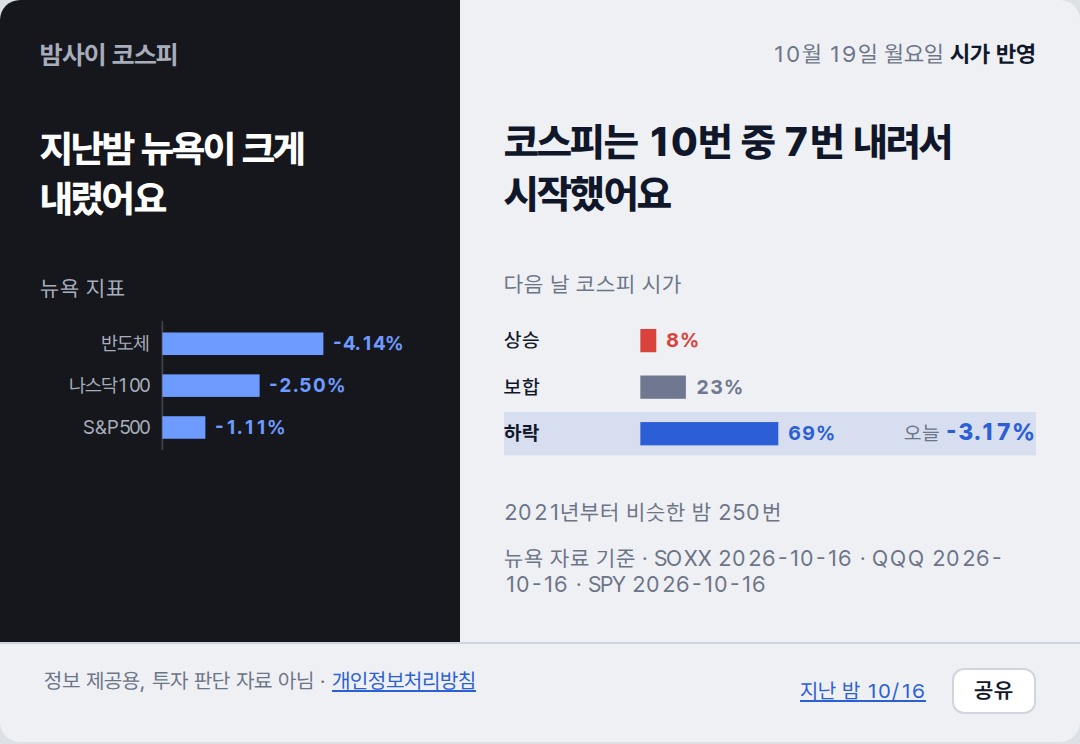
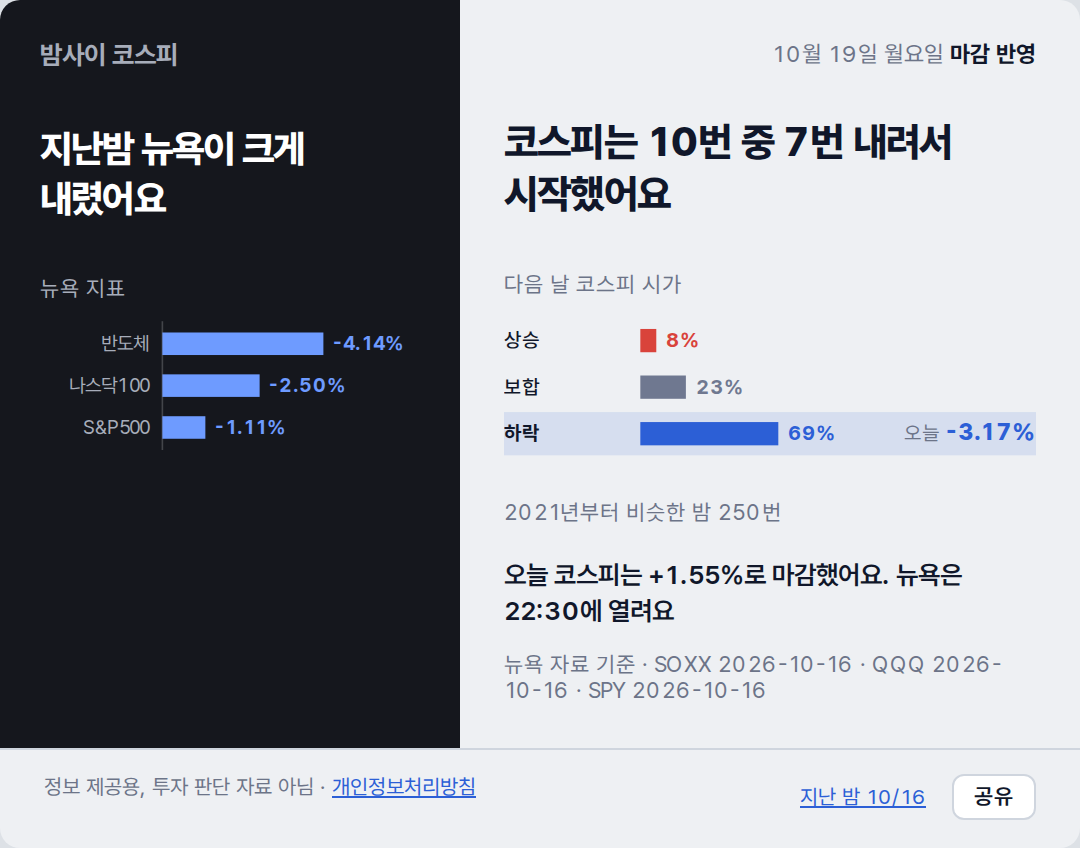
deploy: 83715f4442a63addcf74a369a827ce43509b27bc

diff --git a/archive/2026-10/index.html b/archive/2026-10/index.html
@@ -31,7 +31,7 @@ body{overflow-wrap:anywhere}.row-label{flex-wrap:wrap;gap:4px 12px}
 </style></head><body><a class="skip" href="#main">본문으로 이동</a><div class="wrap">
 <nav class="service-family" aria-label="디토엑시스"><a href="https://ditoaxis.com/#products"><span class="axis-mark" aria-hidden="true">+</span>디토엑시스 서비스<span aria-hidden="true">↗</span></a></nav>
 <header class="site-header"><a class="brand" href="https://kospi.ditoaxis.com/">밤사이 코스피</a><nav aria-label="사이트"><a href="https://kospi.ditoaxis.com/archive/2026-10/">지난 기록</a><a href="https://kospi.ditoaxis.com/about/">집계 기준</a></nav></header>
-<main id="main" tabindex="-1"><div class="page-heading"><h1>2026년 10월 기록</h1></div><nav class="day-nav" aria-label="월별 기록"><a rel="prev" href="https://kospi.ditoaxis.com/archive/2026-09/">이전 달 9월</a></nav><p class="table-hint">표를 좌우로 밀어 모든 항목을 볼 수 있어요.</p><div class="table-scroll" role="region" aria-label="시장 기록 비교표, 좌우로 스크롤" tabindex="0"><table class="archive-table"><thead><tr><th scope="col">날짜</th><th scope="col">SOXX<span class="column-unit">등락률</span></th><th scope="col">QQQ<span class="column-unit">등락률</span></th><th scope="col">SPY<span class="column-unit">등락률</span></th><th scope="col">시가<span class="column-unit">등락률</span></th><th scope="col">종가<span class="column-unit">등락률</span></th></tr></thead><tbody><tr data-date="2026-10-19"><th scope="row"><a href="https://kospi.ditoaxis.com/2026-10-19/">10/19</a></th><td><span class="cell-mark" style="background:var(--down)" aria-hidden="true"></span>-4.14%</td><td><span class="cell-mark" style="background:var(--down)" aria-hidden="true"></span>-2.50%</td><td><span class="cell-mark" style="background:var(--down)" aria-hidden="true"></span>-1.11%</td><td><span class="cell-mark" style="background:var(--down)" aria-hidden="true"></span>-3.17%</td><td><span class="cell-wait">종가 대기</span></td></tr><tr data-date="2026-10-16"><th scope="row"><a href="https://kospi.ditoaxis.com/2026-10-16/">10/16</a></th><td><span class="cell-mark" style="background:var(--down)" aria-hidden="true"></span>-0.91%</td><td><span class="cell-mark" style="background:var(--down)" aria-hidden="true"></span>-0.13%</td><td><span class="cell-mark" style="background:var(--up)" aria-hidden="true"></span>+0.28%</td><td><span class="cell-mark" style="background:var(--up)" aria-hidden="true"></span>+1.80%</td><td><span class="cell-mark" style="background:var(--up)" aria-hidden="true"></span>+2.05%</td></tr><tr data-date="2026-10-15"><th scope="row"><a href="https://kospi.ditoaxis.com/2026-10-15/">10/15</a></th><td><span class="cell-mark" style="background:var(--down)" aria-hidden="true"></span>-4.50%</td><td><span class="cell-mark" style="background:var(--down)" aria-hidden="true"></span>-1.97%</td><td><span class="cell-mark" style="background:var(--down)" aria-hidden="true"></span>-1.08%</td><td><span class="cell-mark" style="background:var(--down)" aria-hidden="true"></span>-5.59%</td><td><span class="cell-mark" style="background:var(--down)" aria-hidden="true"></span>-7.57%</td></tr><tr data-date="2026-10-14"><th scope="row"><a href="https://kospi.ditoaxis.com/2026-10-14/">10/14</a></th><td><span class="cell-mark" style="background:var(--down)" aria-hidden="true"></span>-0.17%</td><td><span class="cell-mark" style="background:var(--down)" aria-hidden="true"></span>-0.33%</td><td><span class="cell-mark" style="background:var(--flat)" aria-hidden="true"></span>-0.01%</td><td><span class="cell-mark" style="background:var(--up)" aria-hidden="true"></span>+0.44%</td><td><span class="cell-mark" style="background:var(--down)" aria-hidden="true"></span>-0.44%</td></tr><tr data-date="2026-10-13"><th scope="row"><a href="https://kospi.ditoaxis.com/2026-10-13/">10/13</a></th><td><span class="cell-mark" style="background:var(--down)" aria-hidden="true"></span>-2.60%</td><td><span class="cell-mark" style="background:var(--down)" aria-hidden="true"></span>-0.70%</td><td><span class="cell-mark" style="background:var(--down)" aria-hidden="true"></span>-0.06%</td><td><span class="cell-mark" style="background:var(--down)" aria-hidden="true"></span>-3.10%</td><td><span class="cell-mark" style="background:var(--down)" aria-hidden="true"></span>-5.46%</td></tr><tr data-date="2026-10-12"><th scope="row"><a href="https://kospi.ditoaxis.com/2026-10-12/">10/12</a></th><td><span class="cell-mark" style="background:var(--down)" aria-hidden="true"></span>-4.02%</td><td><span class="cell-mark" style="background:var(--down)" aria-hidden="true"></span>-0.85%</td><td><span class="cell-mark" style="background:var(--up)" aria-hidden="true"></span>+0.17%</td><td><span class="cell-mark" style="background:var(--down)" aria-hidden="true"></span>-0.72%</td><td><span class="cell-mark" style="background:var(--down)" aria-hidden="true"></span>-3.65%</td></tr><tr data-date="2026-10-09"><th scope="row"><a href="https://kospi.ditoaxis.com/2026-10-09/">10/09</a></th><td><span class="cell-mark" style="background:var(--down)" aria-hidden="true"></span>-3.35%</td><td><span class="cell-mark" style="background:var(--down)" aria-hidden="true"></span>-1.34%</td><td><span class="cell-mark" style="background:var(--down)" aria-hidden="true"></span>-0.42%</td><td colspan="2" class="no-record">기록이 없어요</td></tr><tr data-date="2026-10-08"><th scope="row"><a href="https://kospi.ditoaxis.com/2026-10-08/">10/08</a></th><td><span class="cell-mark" style="background:var(--down)" aria-hidden="true"></span>-1.12%</td><td><span class="cell-mark" style="background:var(--down)" aria-hidden="true"></span>-0.25%</td><td><span class="cell-mark" style="background:var(--down)" aria-hidden="true"></span>-0.24%</td><td><span class="cell-mark" style="background:var(--up)" aria-hidden="true"></span>+0.07%</td><td><span class="cell-mark" style="background:var(--down)" aria-hidden="true"></span>-2.62%</td></tr><tr data-date="2026-10-07"><th scope="row"><a href="https://kospi.ditoaxis.com/2026-10-07/">10/07</a></th><td><span class="cell-mark" style="background:var(--flat)" aria-hidden="true"></span>-0.01%</td><td><span class="cell-mark" style="background:var(--up)" aria-hidden="true"></span>+0.46%</td><td><span class="cell-mark" style="background:var(--up)" aria-hidden="true"></span>+0.55%</td><td><span class="cell-mark" style="background:var(--down)" aria-hidden="true"></span>-1.11%</td><td><span class="cell-mark" style="background:var(--down)" aria-hidden="true"></span>-1.98%</td></tr><tr data-date="2026-10-06"><th scope="row"><a href="https://kospi.ditoaxis.com/2026-10-06/">10/06</a></th><td><span class="cell-mark" style="background:var(--up)" aria-hidden="true"></span>+2.29%</td><td><span class="cell-mark" style="background:var(--up)" aria-hidden="true"></span>+1.91%</td><td><span class="cell-mark" style="background:var(--up)" aria-hidden="true"></span>+1.42%</td><td><span class="cell-mark" style="background:var(--up)" aria-hidden="true"></span>+0.58%</td><td><span class="cell-mark" style="background:var(--down)" aria-hidden="true"></span>-0.89%</td></tr><tr data-date="2026-10-05"><th scope="row"><a href="https://kospi.ditoaxis.com/2026-10-05/">10/05</a></th><td><span class="cell-mark" style="background:var(--up)" aria-hidden="true"></span>+2.18%</td><td><span class="cell-mark" style="background:var(--up)" aria-hidden="true"></span>+1.02%</td><td><span class="cell-mark" style="background:var(--up)" aria-hidden="true"></span>+0.74%</td><td colspan="2" class="no-record">기록이 없어요</td></tr><tr data-date="2026-10-02"><th scope="row"><a href="https://kospi.ditoaxis.com/2026-10-02/">10/02</a></th><td><span class="cell-mark" style="background:var(--up)" aria-hidden="true"></span>+1.35%</td><td><span class="cell-mark" style="background:var(--up)" aria-hidden="true"></span>+0.31%</td><td><span class="cell-mark" style="background:var(--up)" aria-hidden="true"></span>+0.18%</td><td><span class="cell-mark" style="background:var(--down)" aria-hidden="true"></span>-0.47%</td><td><span class="cell-mark" style="background:var(--up)" aria-hidden="true"></span>+0.46%</td></tr><tr data-date="2026-10-01"><th scope="row"><a href="https://kospi.ditoaxis.com/2026-10-01/">10/01</a></th><td><span class="cell-mark" style="background:var(--up)" aria-hidden="true"></span>+0.21%</td><td><span class="cell-mark" style="background:var(--up)" aria-hidden="true"></span>+0.25%</td><td><span class="cell-mark" style="background:var(--down)" aria-hidden="true"></span>-0.21%</td><td><span class="cell-mark" style="background:var(--down)" aria-hidden="true"></span>-0.34%</td><td><span class="cell-mark" style="background:var(--up)" aria-hidden="true"></span>+1.95%</td></tr></tbody></table></div></main><footer class="site-footer"><span>정보 제공용, 투자 판단 자료 아님</span><nav><a href="https://kospi.ditoaxis.com/about/">집계 기준</a><a href="https://kospi.ditoaxis.com/privacy/">개인정보처리방침</a></nav></footer></div><script id="market-table-keys">
+<main id="main" tabindex="-1"><div class="page-heading"><h1>2026년 10월 기록</h1></div><nav class="day-nav" aria-label="월별 기록"><a rel="prev" href="https://kospi.ditoaxis.com/archive/2026-09/">이전 달 9월</a></nav><p class="table-hint">표를 좌우로 밀어 모든 항목을 볼 수 있어요.</p><div class="table-scroll" role="region" aria-label="시장 기록 비교표, 좌우로 스크롤" tabindex="0"><table class="archive-table"><thead><tr><th scope="col">날짜</th><th scope="col">SOXX<span class="column-unit">등락률</span></th><th scope="col">QQQ<span class="column-unit">등락률</span></th><th scope="col">SPY<span class="column-unit">등락률</span></th><th scope="col">시가<span class="column-unit">등락률</span></th><th scope="col">종가<span class="column-unit">등락률</span></th></tr></thead><tbody><tr data-date="2026-10-19"><th scope="row"><a href="https://kospi.ditoaxis.com/2026-10-19/">10/19</a></th><td><span class="cell-mark" style="background:var(--down)" aria-hidden="true"></span>-4.14%</td><td><span class="cell-mark" style="background:var(--down)" aria-hidden="true"></span>-2.50%</td><td><span class="cell-mark" style="background:var(--down)" aria-hidden="true"></span>-1.11%</td><td><span class="cell-mark" style="background:var(--down)" aria-hidden="true"></span>-3.17%</td><td><span class="cell-mark" style="background:var(--up)" aria-hidden="true"></span>+1.55%</td></tr><tr data-date="2026-10-16"><th scope="row"><a href="https://kospi.ditoaxis.com/2026-10-16/">10/16</a></th><td><span class="cell-mark" style="background:var(--down)" aria-hidden="true"></span>-0.91%</td><td><span class="cell-mark" style="background:var(--down)" aria-hidden="true"></span>-0.13%</td><td><span class="cell-mark" style="background:var(--up)" aria-hidden="true"></span>+0.28%</td><td><span class="cell-mark" style="background:var(--up)" aria-hidden="true"></span>+1.80%</td><td><span class="cell-mark" style="background:var(--up)" aria-hidden="true"></span>+2.05%</td></tr><tr data-date="2026-10-15"><th scope="row"><a href="https://kospi.ditoaxis.com/2026-10-15/">10/15</a></th><td><span class="cell-mark" style="background:var(--down)" aria-hidden="true"></span>-4.50%</td><td><span class="cell-mark" style="background:var(--down)" aria-hidden="true"></span>-1.97%</td><td><span class="cell-mark" style="background:var(--down)" aria-hidden="true"></span>-1.08%</td><td><span class="cell-mark" style="background:var(--down)" aria-hidden="true"></span>-5.59%</td><td><span class="cell-mark" style="background:var(--down)" aria-hidden="true"></span>-7.57%</td></tr><tr data-date="2026-10-14"><th scope="row"><a href="https://kospi.ditoaxis.com/2026-10-14/">10/14</a></th><td><span class="cell-mark" style="background:var(--down)" aria-hidden="true"></span>-0.17%</td><td><span class="cell-mark" style="background:var(--down)" aria-hidden="true"></span>-0.33%</td><td><span class="cell-mark" style="background:var(--flat)" aria-hidden="true"></span>-0.01%</td><td><span class="cell-mark" style="background:var(--up)" aria-hidden="true"></span>+0.44%</td><td><span class="cell-mark" style="background:var(--down)" aria-hidden="true"></span>-0.44%</td></tr><tr data-date="2026-10-13"><th scope="row"><a href="https://kospi.ditoaxis.com/2026-10-13/">10/13</a></th><td><span class="cell-mark" style="background:var(--down)" aria-hidden="true"></span>-2.60%</td><td><span class="cell-mark" style="background:var(--down)" aria-hidden="true"></span>-0.70%</td><td><span class="cell-mark" style="background:var(--down)" aria-hidden="true"></span>-0.06%</td><td><span class="cell-mark" style="background:var(--down)" aria-hidden="true"></span>-3.10%</td><td><span class="cell-mark" style="background:var(--down)" aria-hidden="true"></span>-5.46%</td></tr><tr data-date="2026-10-12"><th scope="row"><a href="https://kospi.ditoaxis.com/2026-10-12/">10/12</a></th><td><span class="cell-mark" style="background:var(--down)" aria-hidden="true"></span>-4.02%</td><td><span class="cell-mark" style="background:var(--down)" aria-hidden="true"></span>-0.85%</td><td><span class="cell-mark" style="background:var(--up)" aria-hidden="true"></span>+0.17%</td><td><span class="cell-mark" style="background:var(--down)" aria-hidden="true"></span>-0.72%</td><td><span class="cell-mark" style="background:var(--down)" aria-hidden="true"></span>-3.65%</td></tr><tr data-date="2026-10-09"><th scope="row"><a href="https://kospi.ditoaxis.com/2026-10-09/">10/09</a></th><td><span class="cell-mark" style="background:var(--down)" aria-hidden="true"></span>-3.35%</td><td><span class="cell-mark" style="background:var(--down)" aria-hidden="true"></span>-1.34%</td><td><span class="cell-mark" style="background:var(--down)" aria-hidden="true"></span>-0.42%</td><td colspan="2" class="no-record">기록이 없어요</td></tr><tr data-date="2026-10-08"><th scope="row"><a href="https://kospi.ditoaxis.com/2026-10-08/">10/08</a></th><td><span class="cell-mark" style="background:var(--down)" aria-hidden="true"></span>-1.12%</td><td><span class="cell-mark" style="background:var(--down)" aria-hidden="true"></span>-0.25%</td><td><span class="cell-mark" style="background:var(--down)" aria-hidden="true"></span>-0.24%</td><td><span class="cell-mark" style="background:var(--up)" aria-hidden="true"></span>+0.07%</td><td><span class="cell-mark" style="background:var(--down)" aria-hidden="true"></span>-2.62%</td></tr><tr data-date="2026-10-07"><th scope="row"><a href="https://kospi.ditoaxis.com/2026-10-07/">10/07</a></th><td><span class="cell-mark" style="background:var(--flat)" aria-hidden="true"></span>-0.01%</td><td><span class="cell-mark" style="background:var(--up)" aria-hidden="true"></span>+0.46%</td><td><span class="cell-mark" style="background:var(--up)" aria-hidden="true"></span>+0.55%</td><td><span class="cell-mark" style="background:var(--down)" aria-hidden="true"></span>-1.11%</td><td><span class="cell-mark" style="background:var(--down)" aria-hidden="true"></span>-1.98%</td></tr><tr data-date="2026-10-06"><th scope="row"><a href="https://kospi.ditoaxis.com/2026-10-06/">10/06</a></th><td><span class="cell-mark" style="background:var(--up)" aria-hidden="true"></span>+2.29%</td><td><span class="cell-mark" style="background:var(--up)" aria-hidden="true"></span>+1.91%</td><td><span class="cell-mark" style="background:var(--up)" aria-hidden="true"></span>+1.42%</td><td><span class="cell-mark" style="background:var(--up)" aria-hidden="true"></span>+0.58%</td><td><span class="cell-mark" style="background:var(--down)" aria-hidden="true"></span>-0.89%</td></tr><tr data-date="2026-10-05"><th scope="row"><a href="https://kospi.ditoaxis.com/2026-10-05/">10/05</a></th><td><span class="cell-mark" style="background:var(--up)" aria-hidden="true"></span>+2.18%</td><td><span class="cell-mark" style="background:var(--up)" aria-hidden="true"></span>+1.02%</td><td><span class="cell-mark" style="background:var(--up)" aria-hidden="true"></span>+0.74%</td><td colspan="2" class="no-record">기록이 없어요</td></tr><tr data-date="2026-10-02"><th scope="row"><a href="https://kospi.ditoaxis.com/2026-10-02/">10/02</a></th><td><span class="cell-mark" style="background:var(--up)" aria-hidden="true"></span>+1.35%</td><td><span class="cell-mark" style="background:var(--up)" aria-hidden="true"></span>+0.31%</td><td><span class="cell-mark" style="background:var(--up)" aria-hidden="true"></span>+0.18%</td><td><span class="cell-mark" style="background:var(--down)" aria-hidden="true"></span>-0.47%</td><td><span class="cell-mark" style="background:var(--up)" aria-hidden="true"></span>+0.46%</td></tr><tr data-date="2026-10-01"><th scope="row"><a href="https://kospi.ditoaxis.com/2026-10-01/">10/01</a></th><td><span class="cell-mark" style="background:var(--up)" aria-hidden="true"></span>+0.21%</td><td><span class="cell-mark" style="background:var(--up)" aria-hidden="true"></span>+0.25%</td><td><span class="cell-mark" style="background:var(--down)" aria-hidden="true"></span>-0.21%</td><td><span class="cell-mark" style="background:var(--down)" aria-hidden="true"></span>-0.34%</td><td><span class="cell-mark" style="background:var(--up)" aria-hidden="true"></span>+1.95%</td></tr></tbody></table></div></main><footer class="site-footer"><span>정보 제공용, 투자 판단 자료 아님</span><nav><a href="https://kospi.ditoaxis.com/about/">집계 기준</a><a href="https://kospi.ditoaxis.com/privacy/">개인정보처리방침</a></nav></footer></div><script id="market-table-keys">
 document.querySelectorAll('.table-scroll').forEach(region => {
   region.addEventListener('keydown', event => {
     if (event.target !== region || event.altKey || event.ctrlKey || event.metaKey || event.shiftKey || region.scrollWidth <= region.clientWidth) return;

diff --git a/2026-10-19/index.html b/2026-10-19/index.html
@@ -31,7 +31,7 @@ body{overflow-wrap:anywhere}.row-label{flex-wrap:wrap;gap:4px 12px}
 </style></head><body><a class="skip" href="#main">본문으로 이동</a><div class="wrap">
 <nav class="service-family" aria-label="디토엑시스"><a href="https://ditoaxis.com/#products"><span class="axis-mark" aria-hidden="true">+</span>디토엑시스 서비스<span aria-hidden="true">↗</span></a></nav>
 <header class="site-header"><a class="brand" href="https://kospi.ditoaxis.com/">밤사이 코스피</a><nav aria-label="사이트"><a href="https://kospi.ditoaxis.com/archive/2026-10/">지난 기록</a><a href="https://kospi.ditoaxis.com/about/">집계 기준</a></nav></header>
-<main id="main" tabindex="-1"><div class="page-heading"><h1><time datetime="2026-10-19">2026년 10월 19일</time></h1><button class="share" type="button" hidden>공유</button></div><nav class="day-nav" aria-label="날짜별 기록"><a rel="prev" href="https://kospi.ditoaxis.com/2026-10-16/">이전 기록 10/16</a></nav><div class="answer-band"><section class="ny-area" aria-labelledby="ny-title"><h2 id="ny-title">밤사이 뉴욕</h2><div class="graphic-row"><div class="row-label"><span>반도체<span class="ticker">SOXX</span></span><strong>-4.14%</strong></div><div class="ny-track" aria-hidden="true"><i style="left:0.000%;width:50.000%;background:var(--down)"></i></div><span class="source-state"></span></div><div class="graphic-row"><div class="row-label"><span>나스닥100<span class="ticker">QQQ</span></span><strong>-2.50%</strong></div><div class="ny-track" aria-hidden="true"><i style="left:19.822%;width:30.178%;background:var(--down)"></i></div><span class="source-state"></span></div><div class="graphic-row"><div class="row-label"><span>S&amp;P500<span class="ticker">SPY</span></span><strong>-1.11%</strong></div><div class="ny-track" aria-hidden="true"><i style="left:36.643%;width:13.357%;background:var(--down)"></i></div><span class="source-state"></span></div><p class="answer">뉴욕 세 지표가 모두 내렸어요</p></section><div class="kospi-side"><section class="frequency-area" aria-labelledby="frequency-title" data-sample-count="250"><h2 id="frequency-title">비슷한 밤 다음에는</h2><div class="frequency-scale"><span>과거 시가 빈도</span><span>0~100%</span></div><div class="graphic-row"><div class="row-label"><span>상승</span><span class="frequency-value"><span>250번 중 20번</span><span>(8%)</span></span></div><div class="frequency-track" aria-hidden="true"><i style="width:8.000%;background:var(--up)"></i></div></div><div class="graphic-row"><div class="row-label"><span>보합</span><span class="frequency-value"><span>250번 중 57번</span><span>(23%)</span></span></div><div class="frequency-track" aria-hidden="true"><i style="width:22.800%;background:var(--flat)"></i></div></div><div class="graphic-row"><div class="row-label"><span>하락</span><span class="frequency-value"><span>250번 중 173번</span><span>(69%)</span></span></div><div class="frequency-track" aria-hidden="true"><i style="width:69.200%;background:var(--down)"></i></div></div><p class="sample-count">비슷한 밤 250번</p><p class="answer">코스피는 10번 중 7번 내려서 시작했어요</p></section><section class="result-area" aria-labelledby="result-title"><h2 id="result-title">코스피 시가와 종가</h2><p class="result-basis">전일 종가 대비 등락률</p><div class="result-axis"><span>-3.6%</span><span>0%</span><span>+3.6%</span></div><div class="result-row" data-observed="true"><div class="row-label"><span>시가</span><strong>-3.17%</strong></div><div class="result-track" aria-hidden="true"><i class="result-mark open" style="left:6.522%;background:var(--down)"></i></div></div><div class="result-row" data-observed="false"><div class="row-label"><span>종가</span><strong class="pending-value">종가 대기</strong></div><div class="result-track" aria-hidden="true"></div></div><p class="answer">코스피는 -3.17%로 시작했어요</p></section></div></div><section class="comparison" id="records"><div class="section-heading"><h2>최근 5거래일 비교</h2><a href="https://kospi.ditoaxis.com/archive/2026-10/">월별 기록 보기</a></div><p class="table-hint">표를 좌우로 밀어 모든 항목을 볼 수 있어요.</p><div class="table-scroll" role="region" aria-label="시장 기록 비교표, 좌우로 스크롤" tabindex="0"><table class="comparison-table"><thead><tr><th scope="col">날짜</th><th scope="col">SOXX<span class="column-unit">등락률</span></th><th scope="col">QQQ<span class="column-unit">등락률</span></th><th scope="col">SPY<span class="column-unit">등락률</span></th><th scope="col">시가<span class="column-unit">등락률</span></th><th scope="col">종가<span class="column-unit">등락률</span></th></tr></thead><tbody><tr data-date="2026-10-19" class="current-row" aria-current="date"><th scope="row"><a href="https://kospi.ditoaxis.com/2026-10-19/">10/19</a></th><td><span class="cell-mark" style="background:var(--down)" aria-hidden="true"></span>-4.14%</td><td><span class="cell-mark" style="background:var(--down)" aria-hidden="true"></span>-2.50%</td><td><span class="cell-mark" style="background:var(--down)" aria-hidden="true"></span>-1.11%</td><td><span class="cell-mark" style="background:var(--down)" aria-hidden="true"></span>-3.17%</td><td><span class="cell-wait">종가 대기</span></td></tr><tr data-date="2026-10-16"><th scope="row"><a href="https://kospi.ditoaxis.com/2026-10-16/">10/16</a></th><td><span class="cell-mark" style="background:var(--down)" aria-hidden="true"></span>-0.91%</td><td><span class="cell-mark" style="background:var(--down)" aria-hidden="true"></span>-0.13%</td><td><span class="cell-mark" style="background:var(--up)" aria-hidden="true"></span>+0.28%</td><td><span class="cell-mark" style="background:var(--up)" aria-hidden="true"></span>+1.80%</td><td><span class="cell-mark" style="background:var(--up)" aria-hidden="true"></span>+2.05%</td></tr><tr data-date="2026-10-15"><th scope="row"><a href="https://kospi.ditoaxis.com/2026-10-15/">10/15</a></th><td><span class="cell-mark" style="background:var(--down)" aria-hidden="true"></span>-4.50%</td><td><span class="cell-mark" style="background:var(--down)" aria-hidden="true"></span>-1.97%</td><td><span class="cell-mark" style="background:var(--down)" aria-hidden="true"></span>-1.08%</td><td><span class="cell-mark" style="background:var(--down)" aria-hidden="true"></span>-5.59%</td><td><span class="cell-mark" style="background:var(--down)" aria-hidden="true"></span>-7.57%</td></tr><tr data-date="2026-10-14"><th scope="row"><a href="https://kospi.ditoaxis.com/2026-10-14/">10/14</a></th><td><span class="cell-mark" style="background:var(--down)" aria-hidden="true"></span>-0.17%</td><td><span class="cell-mark" style="background:var(--down)" aria-hidden="true"></span>-0.33%</td><td><span class="cell-mark" style="background:var(--flat)" aria-hidden="true"></span>-0.01%</td><td><span class="cell-mark" style="background:var(--up)" aria-hidden="true"></span>+0.44%</td><td><span class="cell-mark" style="background:var(--down)" aria-hidden="true"></span>-0.44%</td></tr><tr data-date="2026-10-13"><th scope="row"><a href="https://kospi.ditoaxis.com/2026-10-13/">10/13</a></th><td><span class="cell-mark" style="background:var(--down)" aria-hidden="true"></span>-2.60%</td><td><span class="cell-mark" style="background:var(--down)" aria-hidden="true"></span>-0.70%</td><td><span class="cell-mark" style="background:var(--down)" aria-hidden="true"></span>-0.06%</td><td><span class="cell-mark" style="background:var(--down)" aria-hidden="true"></span>-3.10%</td><td><span class="cell-mark" style="background:var(--down)" aria-hidden="true"></span>-5.46%</td></tr></tbody></table></div></section></main><footer class="site-footer"><span>정보 제공용, 투자 판단 자료 아님</span><nav><a href="https://kospi.ditoaxis.com/about/">집계 기준</a><a href="https://kospi.ditoaxis.com/privacy/">개인정보처리방침</a></nav></footer></div><script>
+<main id="main" tabindex="-1"><div class="page-heading"><h1><time datetime="2026-10-19">2026년 10월 19일</time></h1><button class="share" type="button" hidden>공유</button></div><nav class="day-nav" aria-label="날짜별 기록"><a rel="prev" href="https://kospi.ditoaxis.com/2026-10-16/">이전 기록 10/16</a></nav><div class="answer-band"><section class="ny-area" aria-labelledby="ny-title"><h2 id="ny-title">밤사이 뉴욕</h2><div class="graphic-row"><div class="row-label"><span>반도체<span class="ticker">SOXX</span></span><strong>-4.14%</strong></div><div class="ny-track" aria-hidden="true"><i style="left:0.000%;width:50.000%;background:var(--down)"></i></div><span class="source-state"></span></div><div class="graphic-row"><div class="row-label"><span>나스닥100<span class="ticker">QQQ</span></span><strong>-2.50%</strong></div><div class="ny-track" aria-hidden="true"><i style="left:19.822%;width:30.178%;background:var(--down)"></i></div><span class="source-state"></span></div><div class="graphic-row"><div class="row-label"><span>S&amp;P500<span class="ticker">SPY</span></span><strong>-1.11%</strong></div><div class="ny-track" aria-hidden="true"><i style="left:36.643%;width:13.357%;background:var(--down)"></i></div><span class="source-state"></span></div><p class="answer">뉴욕 세 지표가 모두 내렸어요</p></section><div class="kospi-side"><section class="frequency-area" aria-labelledby="frequency-title" data-sample-count="250"><h2 id="frequency-title">비슷한 밤 다음에는</h2><div class="frequency-scale"><span>과거 시가 빈도</span><span>0~100%</span></div><div class="graphic-row"><div class="row-label"><span>상승</span><span class="frequency-value"><span>250번 중 20번</span><span>(8%)</span></span></div><div class="frequency-track" aria-hidden="true"><i style="width:8.000%;background:var(--up)"></i></div></div><div class="graphic-row"><div class="row-label"><span>보합</span><span class="frequency-value"><span>250번 중 57번</span><span>(23%)</span></span></div><div class="frequency-track" aria-hidden="true"><i style="width:22.800%;background:var(--flat)"></i></div></div><div class="graphic-row"><div class="row-label"><span>하락</span><span class="frequency-value"><span>250번 중 173번</span><span>(69%)</span></span></div><div class="frequency-track" aria-hidden="true"><i style="width:69.200%;background:var(--down)"></i></div></div><p class="sample-count">비슷한 밤 250번</p><p class="answer">코스피는 10번 중 7번 내려서 시작했어요</p></section><section class="result-area" aria-labelledby="result-title"><h2 id="result-title">코스피 시가와 종가</h2><p class="result-basis">전일 종가 대비 등락률</p><div class="result-axis"><span>-3.6%</span><span>0%</span><span>+3.6%</span></div><div class="result-row" data-observed="true"><div class="row-label"><span>시가</span><strong>-3.17%</strong></div><div class="result-track" aria-hidden="true"><i class="result-mark open" style="left:6.522%;background:var(--down)"></i></div></div><div class="result-row" data-observed="true"><div class="row-label"><span>종가</span><strong>+1.55%</strong></div><div class="result-track" aria-hidden="true"><i class="result-mark close" style="left:71.245%;background:var(--up)"></i></div></div><p class="answer">코스피는 +1.55%로 마감했어요</p></section></div></div><section class="comparison" id="records"><div class="section-heading"><h2>최근 5거래일 비교</h2><a href="https://kospi.ditoaxis.com/archive/2026-10/">월별 기록 보기</a></div><p class="table-hint">표를 좌우로 밀어 모든 항목을 볼 수 있어요.</p><div class="table-scroll" role="region" aria-label="시장 기록 비교표, 좌우로 스크롤" tabindex="0"><table class="comparison-table"><thead><tr><th scope="col">날짜</th><th scope="col">SOXX<span class="column-unit">등락률</span></th><th scope="col">QQQ<span class="column-unit">등락률</span></th><th scope="col">SPY<span class="column-unit">등락률</span></th><th scope="col">시가<span class="column-unit">등락률</span></th><th scope="col">종가<span class="column-unit">등락률</span></th></tr></thead><tbody><tr data-date="2026-10-19" class="current-row" aria-current="date"><th scope="row"><a href="https://kospi.ditoaxis.com/2026-10-19/">10/19</a></th><td><span class="cell-mark" style="background:var(--down)" aria-hidden="true"></span>-4.14%</td><td><span class="cell-mark" style="background:var(--down)" aria-hidden="true"></span>-2.50%</td><td><span class="cell-mark" style="background:var(--down)" aria-hidden="true"></span>-1.11%</td><td><span class="cell-mark" style="background:var(--down)" aria-hidden="true"></span>-3.17%</td><td><span class="cell-mark" style="background:var(--up)" aria-hidden="true"></span>+1.55%</td></tr><tr data-date="2026-10-16"><th scope="row"><a href="https://kospi.ditoaxis.com/2026-10-16/">10/16</a></th><td><span class="cell-mark" style="background:var(--down)" aria-hidden="true"></span>-0.91%</td><td><span class="cell-mark" style="background:var(--down)" aria-hidden="true"></span>-0.13%</td><td><span class="cell-mark" style="background:var(--up)" aria-hidden="true"></span>+0.28%</td><td><span class="cell-mark" style="background:var(--up)" aria-hidden="true"></span>+1.80%</td><td><span class="cell-mark" style="background:var(--up)" aria-hidden="true"></span>+2.05%</td></tr><tr data-date="2026-10-15"><th scope="row"><a href="https://kospi.ditoaxis.com/2026-10-15/">10/15</a></th><td><span class="cell-mark" style="background:var(--down)" aria-hidden="true"></span>-4.50%</td><td><span class="cell-mark" style="background:var(--down)" aria-hidden="true"></span>-1.97%</td><td><span class="cell-mark" style="background:var(--down)" aria-hidden="true"></span>-1.08%</td><td><span class="cell-mark" style="background:var(--down)" aria-hidden="true"></span>-5.59%</td><td><span class="cell-mark" style="background:var(--down)" aria-hidden="true"></span>-7.57%</td></tr><tr data-date="2026-10-14"><th scope="row"><a href="https://kospi.ditoaxis.com/2026-10-14/">10/14</a></th><td><span class="cell-mark" style="background:var(--down)" aria-hidden="true"></span>-0.17%</td><td><span class="cell-mark" style="background:var(--down)" aria-hidden="true"></span>-0.33%</td><td><span class="cell-mark" style="background:var(--flat)" aria-hidden="true"></span>-0.01%</td><td><span class="cell-mark" style="background:var(--up)" aria-hidden="true"></span>+0.44%</td><td><span class="cell-mark" style="background:var(--down)" aria-hidden="true"></span>-0.44%</td></tr><tr data-date="2026-10-13"><th scope="row"><a href="https://kospi.ditoaxis.com/2026-10-13/">10/13</a></th><td><span class="cell-mark" style="background:var(--down)" aria-hidden="true"></span>-2.60%</td><td><span class="cell-mark" style="background:var(--down)" aria-hidden="true"></span>-0.70%</td><td><span class="cell-mark" style="background:var(--down)" aria-hidden="true"></span>-0.06%</td><td><span class="cell-mark" style="background:var(--down)" aria-hidden="true"></span>-3.10%</td><td><span class="cell-mark" style="background:var(--down)" aria-hidden="true"></span>-5.46%</td></tr></tbody></table></div></section></main><footer class="site-footer"><span>정보 제공용, 투자 판단 자료 아님</span><nav><a href="https://kospi.ditoaxis.com/about/">집계 기준</a><a href="https://kospi.ditoaxis.com/privacy/">개인정보처리방침</a></nav></footer></div><script>
 const shareButton = document.querySelector('.share');
 shareButton.hidden = false;
 shareButton.addEventListener('click', async function () {

diff --git a/index.html b/index.html
@@ -31,7 +31,7 @@ body{overflow-wrap:anywhere}.row-label{flex-wrap:wrap;gap:4px 12px}
 </style></head><body><a class="skip" href="#main">본문으로 이동</a><div class="wrap">
 <nav class="service-family" aria-label="디토엑시스"><a href="https://ditoaxis.com/#products"><span class="axis-mark" aria-hidden="true">+</span>디토엑시스 서비스<span aria-hidden="true">↗</span></a></nav>
 <header class="site-header"><a class="brand" href="https://kospi.ditoaxis.com/">밤사이 코스피</a><nav aria-label="사이트"><a href="https://kospi.ditoaxis.com/archive/2026-10/">지난 기록</a><a href="https://kospi.ditoaxis.com/about/">집계 기준</a></nav></header>
-<main id="main" tabindex="-1"><div class="page-heading"><h1><time datetime="2026-10-19">2026년 10월 19일</time></h1><button class="share" type="button" hidden>공유</button></div><nav class="day-nav" aria-label="날짜별 기록"><a rel="prev" href="https://kospi.ditoaxis.com/2026-10-16/">이전 기록 10/16</a></nav><div class="answer-band"><section class="ny-area" aria-labelledby="ny-title"><h2 id="ny-title">밤사이 뉴욕</h2><div class="graphic-row"><div class="row-label"><span>반도체<span class="ticker">SOXX</span></span><strong>-4.14%</strong></div><div class="ny-track" aria-hidden="true"><i style="left:0.000%;width:50.000%;background:var(--down)"></i></div><span class="source-state"></span></div><div class="graphic-row"><div class="row-label"><span>나스닥100<span class="ticker">QQQ</span></span><strong>-2.50%</strong></div><div class="ny-track" aria-hidden="true"><i style="left:19.822%;width:30.178%;background:var(--down)"></i></div><span class="source-state"></span></div><div class="graphic-row"><div class="row-label"><span>S&amp;P500<span class="ticker">SPY</span></span><strong>-1.11%</strong></div><div class="ny-track" aria-hidden="true"><i style="left:36.643%;width:13.357%;background:var(--down)"></i></div><span class="source-state"></span></div><p class="answer">뉴욕 세 지표가 모두 내렸어요</p></section><div class="kospi-side"><section class="frequency-area" aria-labelledby="frequency-title" data-sample-count="250"><h2 id="frequency-title">비슷한 밤 다음에는</h2><div class="frequency-scale"><span>과거 시가 빈도</span><span>0~100%</span></div><div class="graphic-row"><div class="row-label"><span>상승</span><span class="frequency-value"><span>250번 중 20번</span><span>(8%)</span></span></div><div class="frequency-track" aria-hidden="true"><i style="width:8.000%;background:var(--up)"></i></div></div><div class="graphic-row"><div class="row-label"><span>보합</span><span class="frequency-value"><span>250번 중 57번</span><span>(23%)</span></span></div><div class="frequency-track" aria-hidden="true"><i style="width:22.800%;background:var(--flat)"></i></div></div><div class="graphic-row"><div class="row-label"><span>하락</span><span class="frequency-value"><span>250번 중 173번</span><span>(69%)</span></span></div><div class="frequency-track" aria-hidden="true"><i style="width:69.200%;background:var(--down)"></i></div></div><p class="sample-count">비슷한 밤 250번</p><p class="answer">코스피는 10번 중 7번 내려서 시작했어요</p></section><section class="result-area" aria-labelledby="result-title"><h2 id="result-title">코스피 시가와 종가</h2><p class="result-basis">전일 종가 대비 등락률</p><div class="result-axis"><span>-3.6%</span><span>0%</span><span>+3.6%</span></div><div class="result-row" data-observed="true"><div class="row-label"><span>시가</span><strong>-3.17%</strong></div><div class="result-track" aria-hidden="true"><i class="result-mark open" style="left:6.522%;background:var(--down)"></i></div></div><div class="result-row" data-observed="false"><div class="row-label"><span>종가</span><strong class="pending-value">종가 대기</strong></div><div class="result-track" aria-hidden="true"></div></div><p class="answer">코스피는 -3.17%로 시작했어요</p></section></div></div><section class="comparison" id="records"><div class="section-heading"><h2>최근 5거래일 비교</h2><a href="https://kospi.ditoaxis.com/archive/2026-10/">월별 기록 보기</a></div><p class="table-hint">표를 좌우로 밀어 모든 항목을 볼 수 있어요.</p><div class="table-scroll" role="region" aria-label="시장 기록 비교표, 좌우로 스크롤" tabindex="0"><table class="comparison-table"><thead><tr><th scope="col">날짜</th><th scope="col">SOXX<span class="column-unit">등락률</span></th><th scope="col">QQQ<span class="column-unit">등락률</span></th><th scope="col">SPY<span class="column-unit">등락률</span></th><th scope="col">시가<span class="column-unit">등락률</span></th><th scope="col">종가<span class="column-unit">등락률</span></th></tr></thead><tbody><tr data-date="2026-10-19" class="current-row" aria-current="date"><th scope="row"><a href="https://kospi.ditoaxis.com/2026-10-19/">10/19</a></th><td><span class="cell-mark" style="background:var(--down)" aria-hidden="true"></span>-4.14%</td><td><span class="cell-mark" style="background:var(--down)" aria-hidden="true"></span>-2.50%</td><td><span class="cell-mark" style="background:var(--down)" aria-hidden="true"></span>-1.11%</td><td><span class="cell-mark" style="background:var(--down)" aria-hidden="true"></span>-3.17%</td><td><span class="cell-wait">종가 대기</span></td></tr><tr data-date="2026-10-16"><th scope="row"><a href="https://kospi.ditoaxis.com/2026-10-16/">10/16</a></th><td><span class="cell-mark" style="background:var(--down)" aria-hidden="true"></span>-0.91%</td><td><span class="cell-mark" style="background:var(--down)" aria-hidden="true"></span>-0.13%</td><td><span class="cell-mark" style="background:var(--up)" aria-hidden="true"></span>+0.28%</td><td><span class="cell-mark" style="background:var(--up)" aria-hidden="true"></span>+1.80%</td><td><span class="cell-mark" style="background:var(--up)" aria-hidden="true"></span>+2.05%</td></tr><tr data-date="2026-10-15"><th scope="row"><a href="https://kospi.ditoaxis.com/2026-10-15/">10/15</a></th><td><span class="cell-mark" style="background:var(--down)" aria-hidden="true"></span>-4.50%</td><td><span class="cell-mark" style="background:var(--down)" aria-hidden="true"></span>-1.97%</td><td><span class="cell-mark" style="background:var(--down)" aria-hidden="true"></span>-1.08%</td><td><span class="cell-mark" style="background:var(--down)" aria-hidden="true"></span>-5.59%</td><td><span class="cell-mark" style="background:var(--down)" aria-hidden="true"></span>-7.57%</td></tr><tr data-date="2026-10-14"><th scope="row"><a href="https://kospi.ditoaxis.com/2026-10-14/">10/14</a></th><td><span class="cell-mark" style="background:var(--down)" aria-hidden="true"></span>-0.17%</td><td><span class="cell-mark" style="background:var(--down)" aria-hidden="true"></span>-0.33%</td><td><span class="cell-mark" style="background:var(--flat)" aria-hidden="true"></span>-0.01%</td><td><span class="cell-mark" style="background:var(--up)" aria-hidden="true"></span>+0.44%</td><td><span class="cell-mark" style="background:var(--down)" aria-hidden="true"></span>-0.44%</td></tr><tr data-date="2026-10-13"><th scope="row"><a href="https://kospi.ditoaxis.com/2026-10-13/">10/13</a></th><td><span class="cell-mark" style="background:var(--down)" aria-hidden="true"></span>-2.60%</td><td><span class="cell-mark" style="background:var(--down)" aria-hidden="true"></span>-0.70%</td><td><span class="cell-mark" style="background:var(--down)" aria-hidden="true"></span>-0.06%</td><td><span class="cell-mark" style="background:var(--down)" aria-hidden="true"></span>-3.10%</td><td><span class="cell-mark" style="background:var(--down)" aria-hidden="true"></span>-5.46%</td></tr></tbody></table></div></section></main><footer class="site-footer"><span>정보 제공용, 투자 판단 자료 아님</span><nav><a href="https://kospi.ditoaxis.com/about/">집계 기준</a><a href="https://kospi.ditoaxis.com/privacy/">개인정보처리방침</a></nav></footer></div><script>
+<main id="main" tabindex="-1"><div class="page-heading"><h1><time datetime="2026-10-19">2026년 10월 19일</time></h1><button class="share" type="button" hidden>공유</button></div><nav class="day-nav" aria-label="날짜별 기록"><a rel="prev" href="https://kospi.ditoaxis.com/2026-10-16/">이전 기록 10/16</a></nav><div class="answer-band"><section class="ny-area" aria-labelledby="ny-title"><h2 id="ny-title">밤사이 뉴욕</h2><div class="graphic-row"><div class="row-label"><span>반도체<span class="ticker">SOXX</span></span><strong>-4.14%</strong></div><div class="ny-track" aria-hidden="true"><i style="left:0.000%;width:50.000%;background:var(--down)"></i></div><span class="source-state"></span></div><div class="graphic-row"><div class="row-label"><span>나스닥100<span class="ticker">QQQ</span></span><strong>-2.50%</strong></div><div class="ny-track" aria-hidden="true"><i style="left:19.822%;width:30.178%;background:var(--down)"></i></div><span class="source-state"></span></div><div class="graphic-row"><div class="row-label"><span>S&amp;P500<span class="ticker">SPY</span></span><strong>-1.11%</strong></div><div class="ny-track" aria-hidden="true"><i style="left:36.643%;width:13.357%;background:var(--down)"></i></div><span class="source-state"></span></div><p class="answer">뉴욕 세 지표가 모두 내렸어요</p></section><div class="kospi-side"><section class="frequency-area" aria-labelledby="frequency-title" data-sample-count="250"><h2 id="frequency-title">비슷한 밤 다음에는</h2><div class="frequency-scale"><span>과거 시가 빈도</span><span>0~100%</span></div><div class="graphic-row"><div class="row-label"><span>상승</span><span class="frequency-value"><span>250번 중 20번</span><span>(8%)</span></span></div><div class="frequency-track" aria-hidden="true"><i style="width:8.000%;background:var(--up)"></i></div></div><div class="graphic-row"><div class="row-label"><span>보합</span><span class="frequency-value"><span>250번 중 57번</span><span>(23%)</span></span></div><div class="frequency-track" aria-hidden="true"><i style="width:22.800%;background:var(--flat)"></i></div></div><div class="graphic-row"><div class="row-label"><span>하락</span><span class="frequency-value"><span>250번 중 173번</span><span>(69%)</span></span></div><div class="frequency-track" aria-hidden="true"><i style="width:69.200%;background:var(--down)"></i></div></div><p class="sample-count">비슷한 밤 250번</p><p class="answer">코스피는 10번 중 7번 내려서 시작했어요</p></section><section class="result-area" aria-labelledby="result-title"><h2 id="result-title">코스피 시가와 종가</h2><p class="result-basis">전일 종가 대비 등락률</p><div class="result-axis"><span>-3.6%</span><span>0%</span><span>+3.6%</span></div><div class="result-row" data-observed="true"><div class="row-label"><span>시가</span><strong>-3.17%</strong></div><div class="result-track" aria-hidden="true"><i class="result-mark open" style="left:6.522%;background:var(--down)"></i></div></div><div class="result-row" data-observed="true"><div class="row-label"><span>종가</span><strong>+1.55%</strong></div><div class="result-track" aria-hidden="true"><i class="result-mark close" style="left:71.245%;background:var(--up)"></i></div></div><p class="answer">코스피는 +1.55%로 마감했어요</p></section></div></div><section class="comparison" id="records"><div class="section-heading"><h2>최근 5거래일 비교</h2><a href="https://kospi.ditoaxis.com/archive/2026-10/">월별 기록 보기</a></div><p class="table-hint">표를 좌우로 밀어 모든 항목을 볼 수 있어요.</p><div class="table-scroll" role="region" aria-label="시장 기록 비교표, 좌우로 스크롤" tabindex="0"><table class="comparison-table"><thead><tr><th scope="col">날짜</th><th scope="col">SOXX<span class="column-unit">등락률</span></th><th scope="col">QQQ<span class="column-unit">등락률</span></th><th scope="col">SPY<span class="column-unit">등락률</span></th><th scope="col">시가<span class="column-unit">등락률</span></th><th scope="col">종가<span class="column-unit">등락률</span></th></tr></thead><tbody><tr data-date="2026-10-19" class="current-row" aria-current="date"><th scope="row"><a href="https://kospi.ditoaxis.com/2026-10-19/">10/19</a></th><td><span class="cell-mark" style="background:var(--down)" aria-hidden="true"></span>-4.14%</td><td><span class="cell-mark" style="background:var(--down)" aria-hidden="true"></span>-2.50%</td><td><span class="cell-mark" style="background:var(--down)" aria-hidden="true"></span>-1.11%</td><td><span class="cell-mark" style="background:var(--down)" aria-hidden="true"></span>-3.17%</td><td><span class="cell-mark" style="background:var(--up)" aria-hidden="true"></span>+1.55%</td></tr><tr data-date="2026-10-16"><th scope="row"><a href="https://kospi.ditoaxis.com/2026-10-16/">10/16</a></th><td><span class="cell-mark" style="background:var(--down)" aria-hidden="true"></span>-0.91%</td><td><span class="cell-mark" style="background:var(--down)" aria-hidden="true"></span>-0.13%</td><td><span class="cell-mark" style="background:var(--up)" aria-hidden="true"></span>+0.28%</td><td><span class="cell-mark" style="background:var(--up)" aria-hidden="true"></span>+1.80%</td><td><span class="cell-mark" style="background:var(--up)" aria-hidden="true"></span>+2.05%</td></tr><tr data-date="2026-10-15"><th scope="row"><a href="https://kospi.ditoaxis.com/2026-10-15/">10/15</a></th><td><span class="cell-mark" style="background:var(--down)" aria-hidden="true"></span>-4.50%</td><td><span class="cell-mark" style="background:var(--down)" aria-hidden="true"></span>-1.97%</td><td><span class="cell-mark" style="background:var(--down)" aria-hidden="true"></span>-1.08%</td><td><span class="cell-mark" style="background:var(--down)" aria-hidden="true"></span>-5.59%</td><td><span class="cell-mark" style="background:var(--down)" aria-hidden="true"></span>-7.57%</td></tr><tr data-date="2026-10-14"><th scope="row"><a href="https://kospi.ditoaxis.com/2026-10-14/">10/14</a></th><td><span class="cell-mark" style="background:var(--down)" aria-hidden="true"></span>-0.17%</td><td><span class="cell-mark" style="background:var(--down)" aria-hidden="true"></span>-0.33%</td><td><span class="cell-mark" style="background:var(--flat)" aria-hidden="true"></span>-0.01%</td><td><span class="cell-mark" style="background:var(--up)" aria-hidden="true"></span>+0.44%</td><td><span class="cell-mark" style="background:var(--down)" aria-hidden="true"></span>-0.44%</td></tr><tr data-date="2026-10-13"><th scope="row"><a href="https://kospi.ditoaxis.com/2026-10-13/">10/13</a></th><td><span class="cell-mark" style="background:var(--down)" aria-hidden="true"></span>-2.60%</td><td><span class="cell-mark" style="background:var(--down)" aria-hidden="true"></span>-0.70%</td><td><span class="cell-mark" style="background:var(--down)" aria-hidden="true"></span>-0.06%</td><td><span class="cell-mark" style="background:var(--down)" aria-hidden="true"></span>-3.10%</td><td><span class="cell-mark" style="background:var(--down)" aria-hidden="true"></span>-5.46%</td></tr></tbody></table></div></section></main><footer class="site-footer"><span>정보 제공용, 투자 판단 자료 아님</span><nav><a href="https://kospi.ditoaxis.com/about/">집계 기준</a><a href="https://kospi.ditoaxis.com/privacy/">개인정보처리방침</a></nav></footer></div><script>
 const shareButton = document.querySelector('.share');
 shareButton.hidden = false;
 shareButton.addEventListener('click', async function () {
